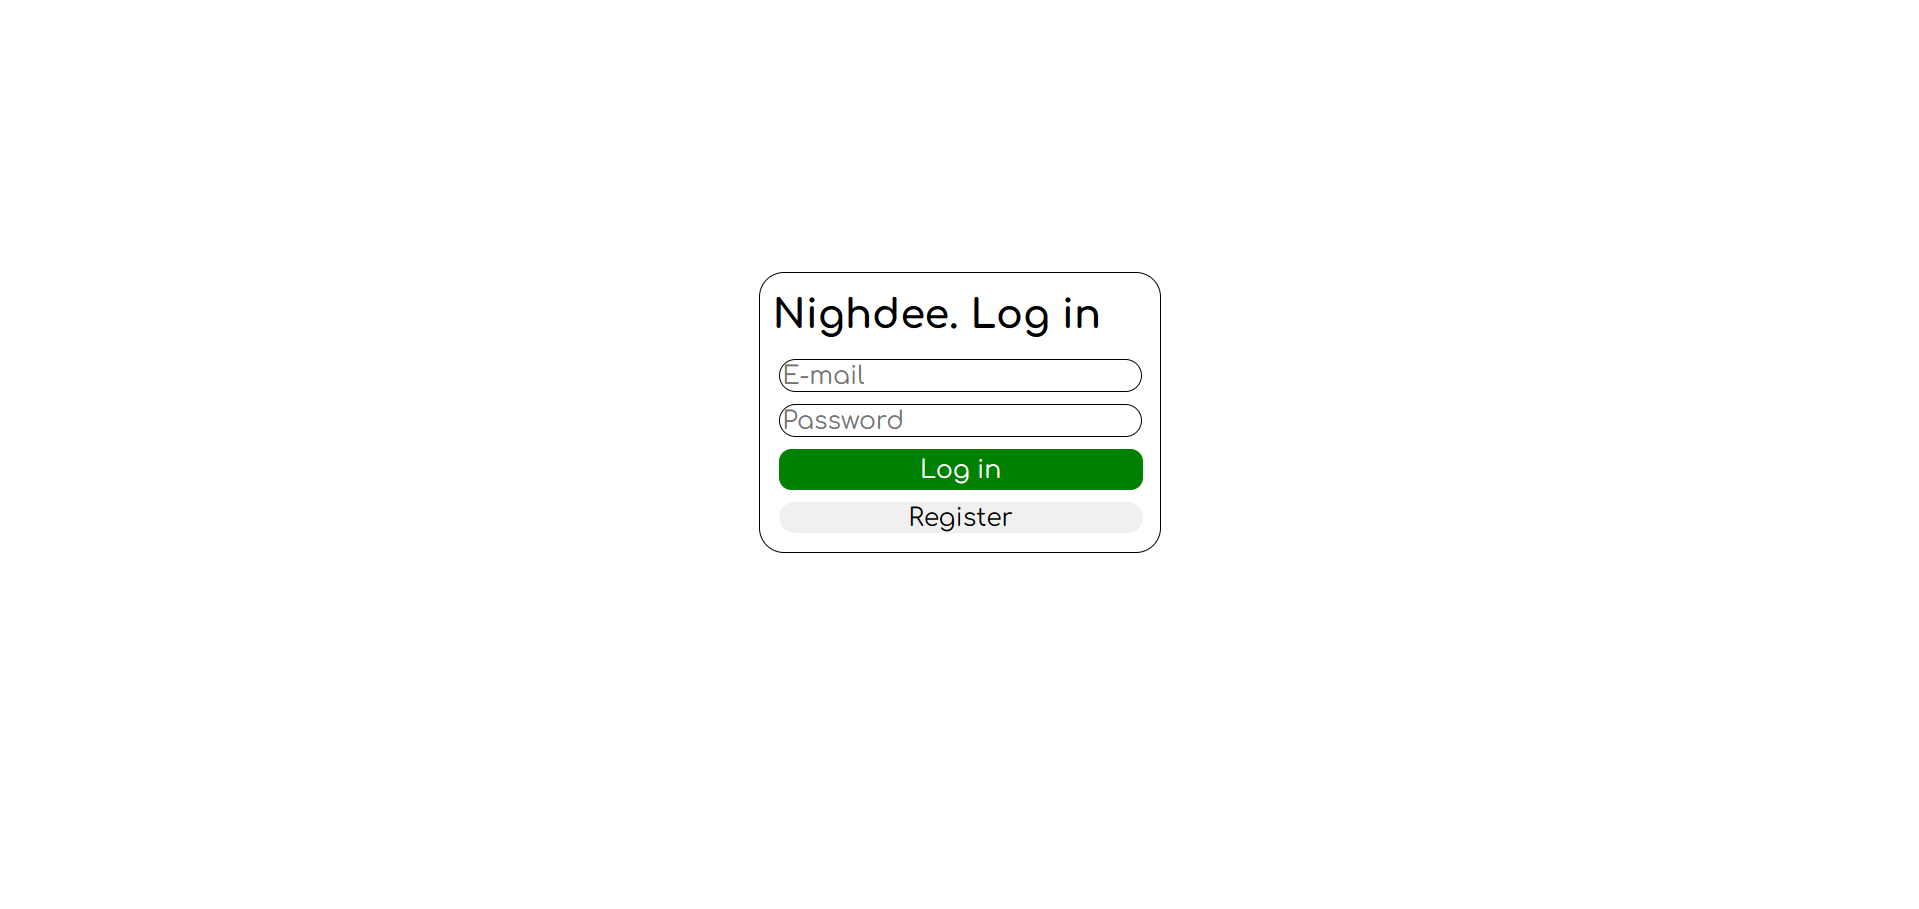
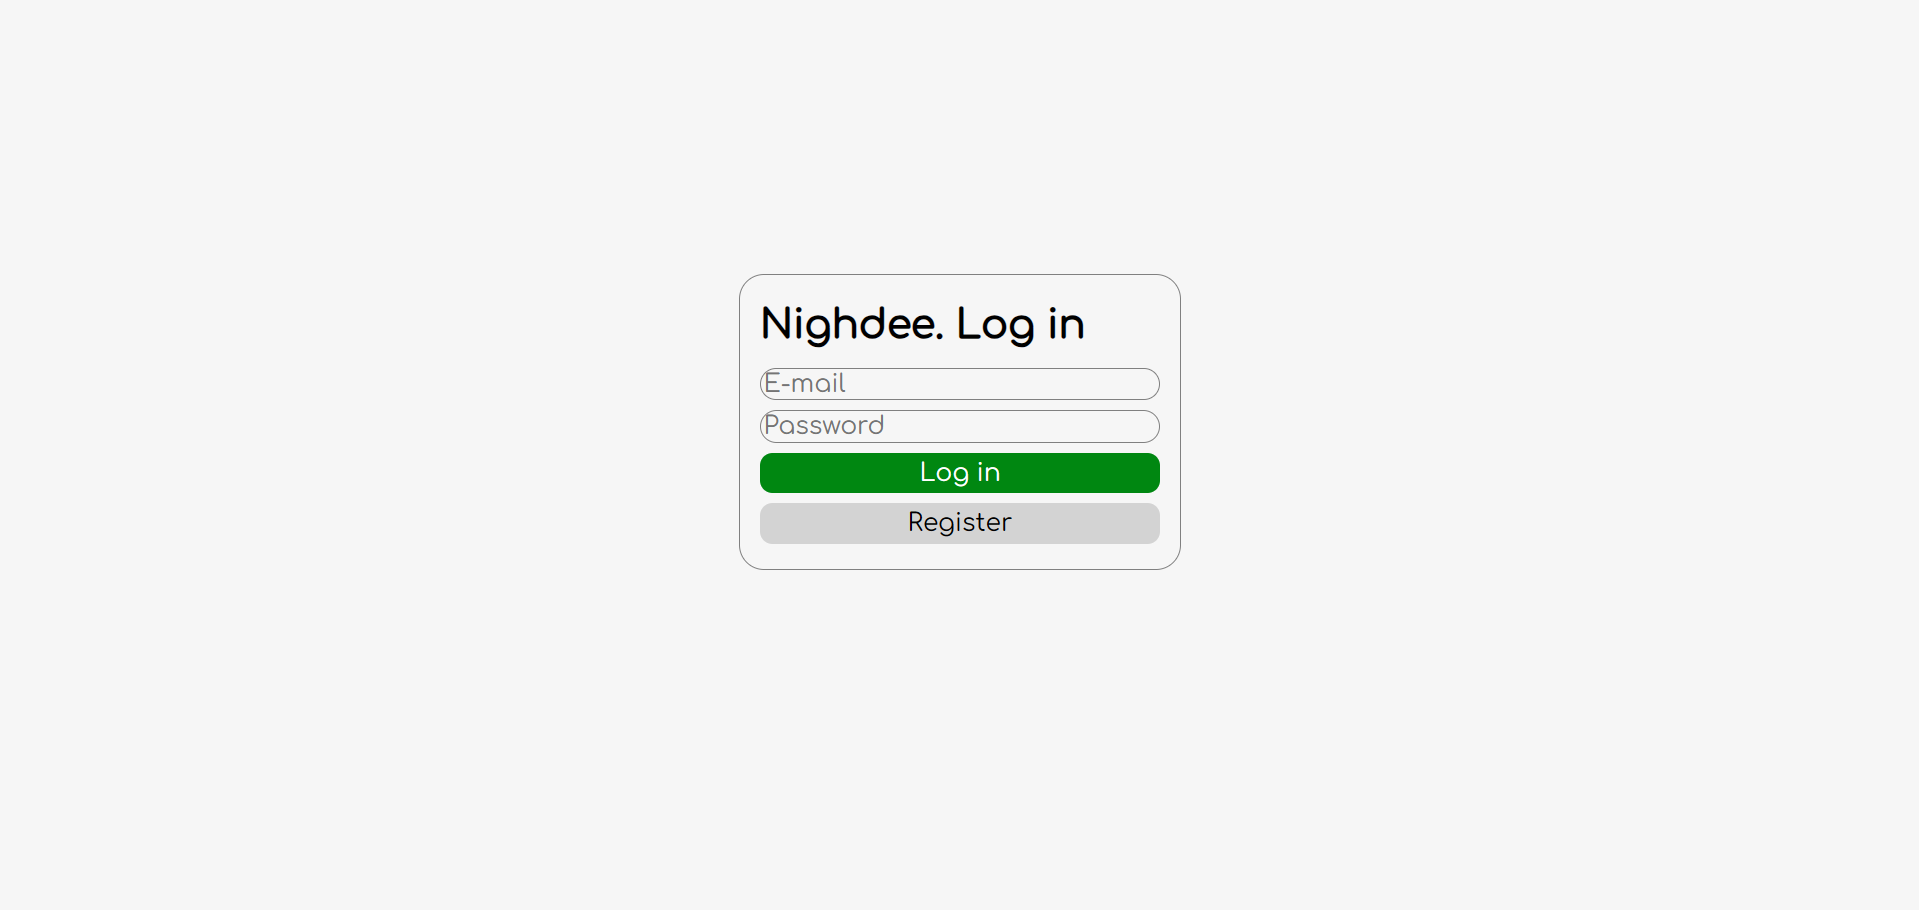
Update README.md

Changed region(s): [[0.3689, 0.2772, 0.6149, 0.6161]]

diff --git a/frontend/README.md b/frontend/README.md
@@ -10,9 +10,23 @@
 │   ├── assets          — folder for used media
 │   ├── components      — used elements of pages
 │   ├── pages           — main web app pages
-│   ├── utils           — minor functions
+│   ├── utils           — helper functions (date formatting, age calculation, etc.)
 │   ├── api.js          — API request functions
 │   ├── main.jsx
 │   └── vite.config.js  — configuration
 └── index.html
 ```
+## Functionality
+### OpenStreetMap API integration
+Originally it was Yandex API, but was replaced with OSM due to licensing issues
+### Responsive web-design for mobile devices
+![image](../assets/responsive-design.png)
+### Light and dark color schemes
+![image](../assets/color-scheme.png)
+### UX/UI identity
+- Font: Comfortaa
+- Primary color: green
+- Secondary colors: red, aqua
+- Background colors: white / darkgray (depends on color-scheme)
+
+Figma drafts are [here](https://www.figma.com/design/7iLSymH8I0XYYk933U6PRe/Nighdee-UX-UI?node-id=40-86&t=e0f5lzfWT5QivzJq-0)

diff --git a/README.md b/README.md
@@ -13,6 +13,8 @@ Nighdee — web-service for creating parties and gathering people with the same 
 ### Frontend
 - OpenStreetMap API integration
 - Responsive web-design for mobile devices
+- Light and dark color schemes
+- UX/UI identity: fonts, colors, forms
 ### DevOps
 - Launching project in two environments (dev + prod)
 - Nginx web-server (balancer)
